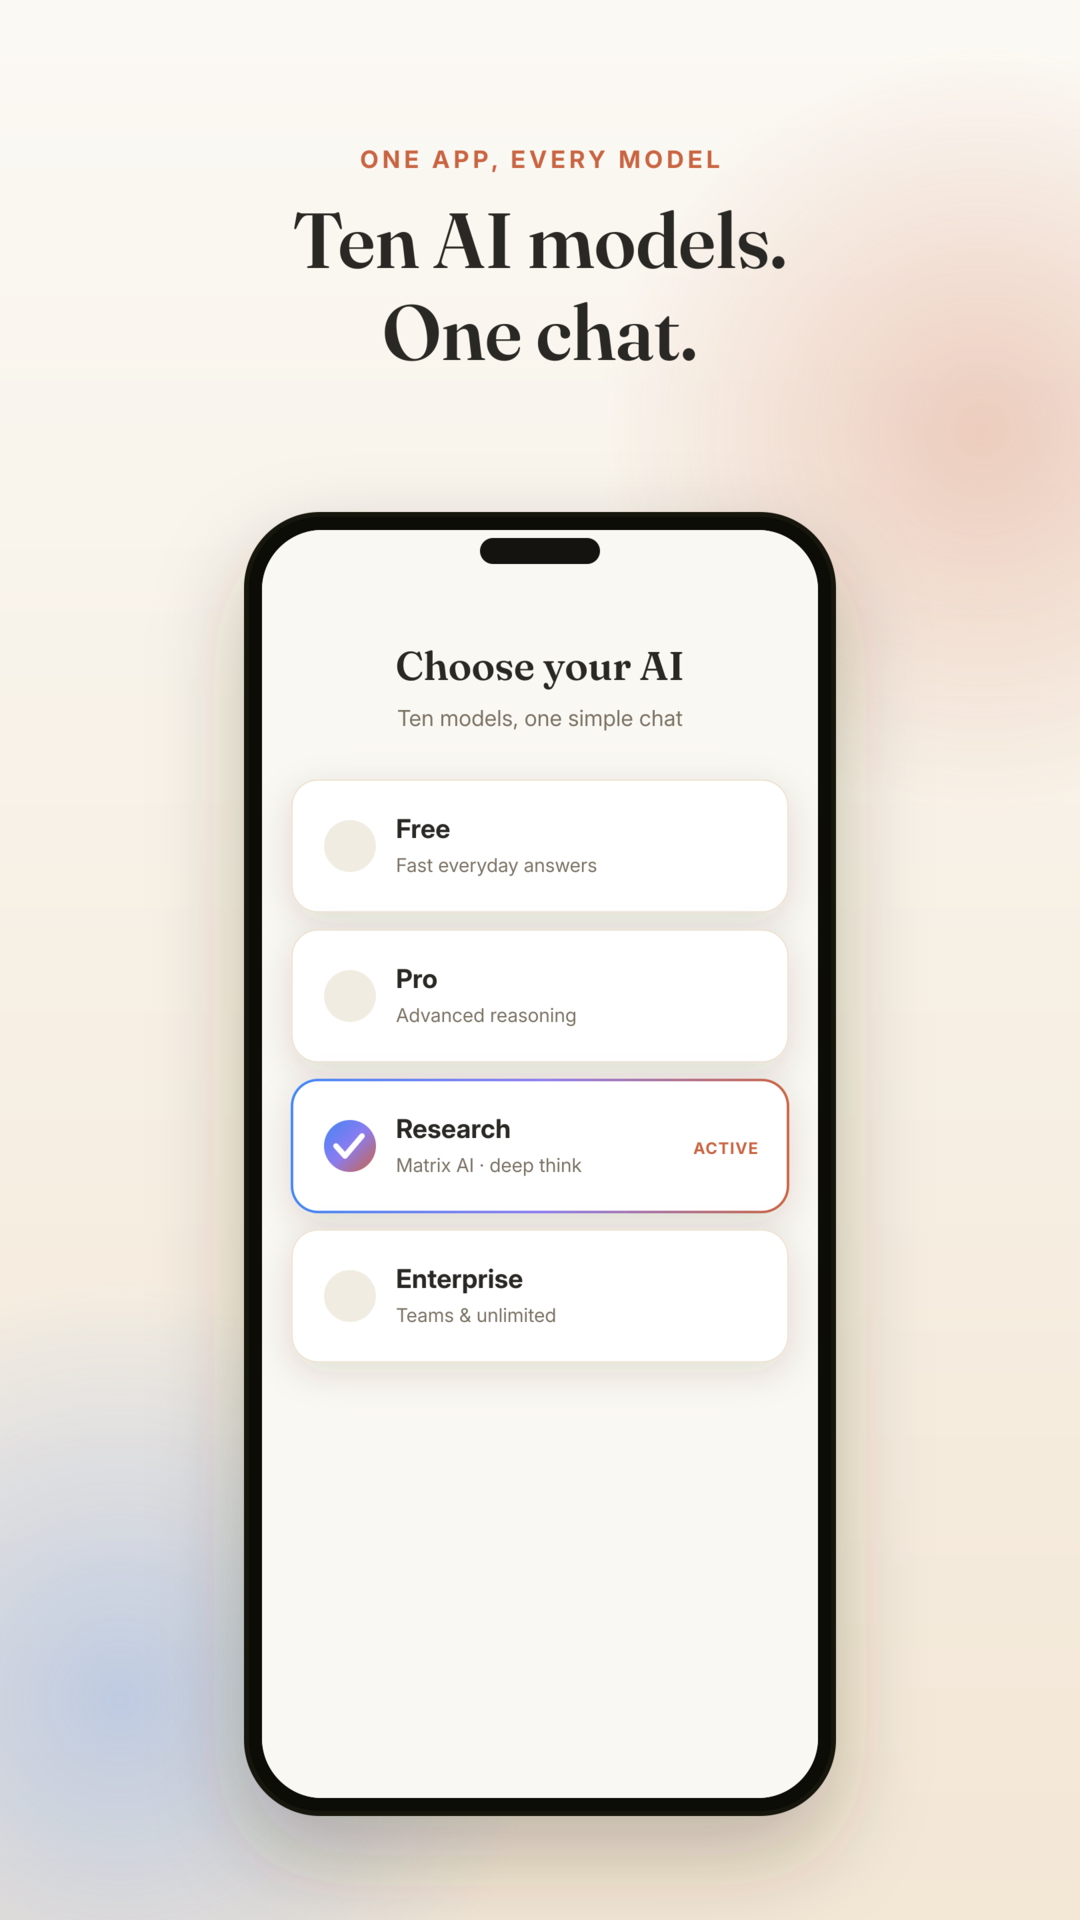
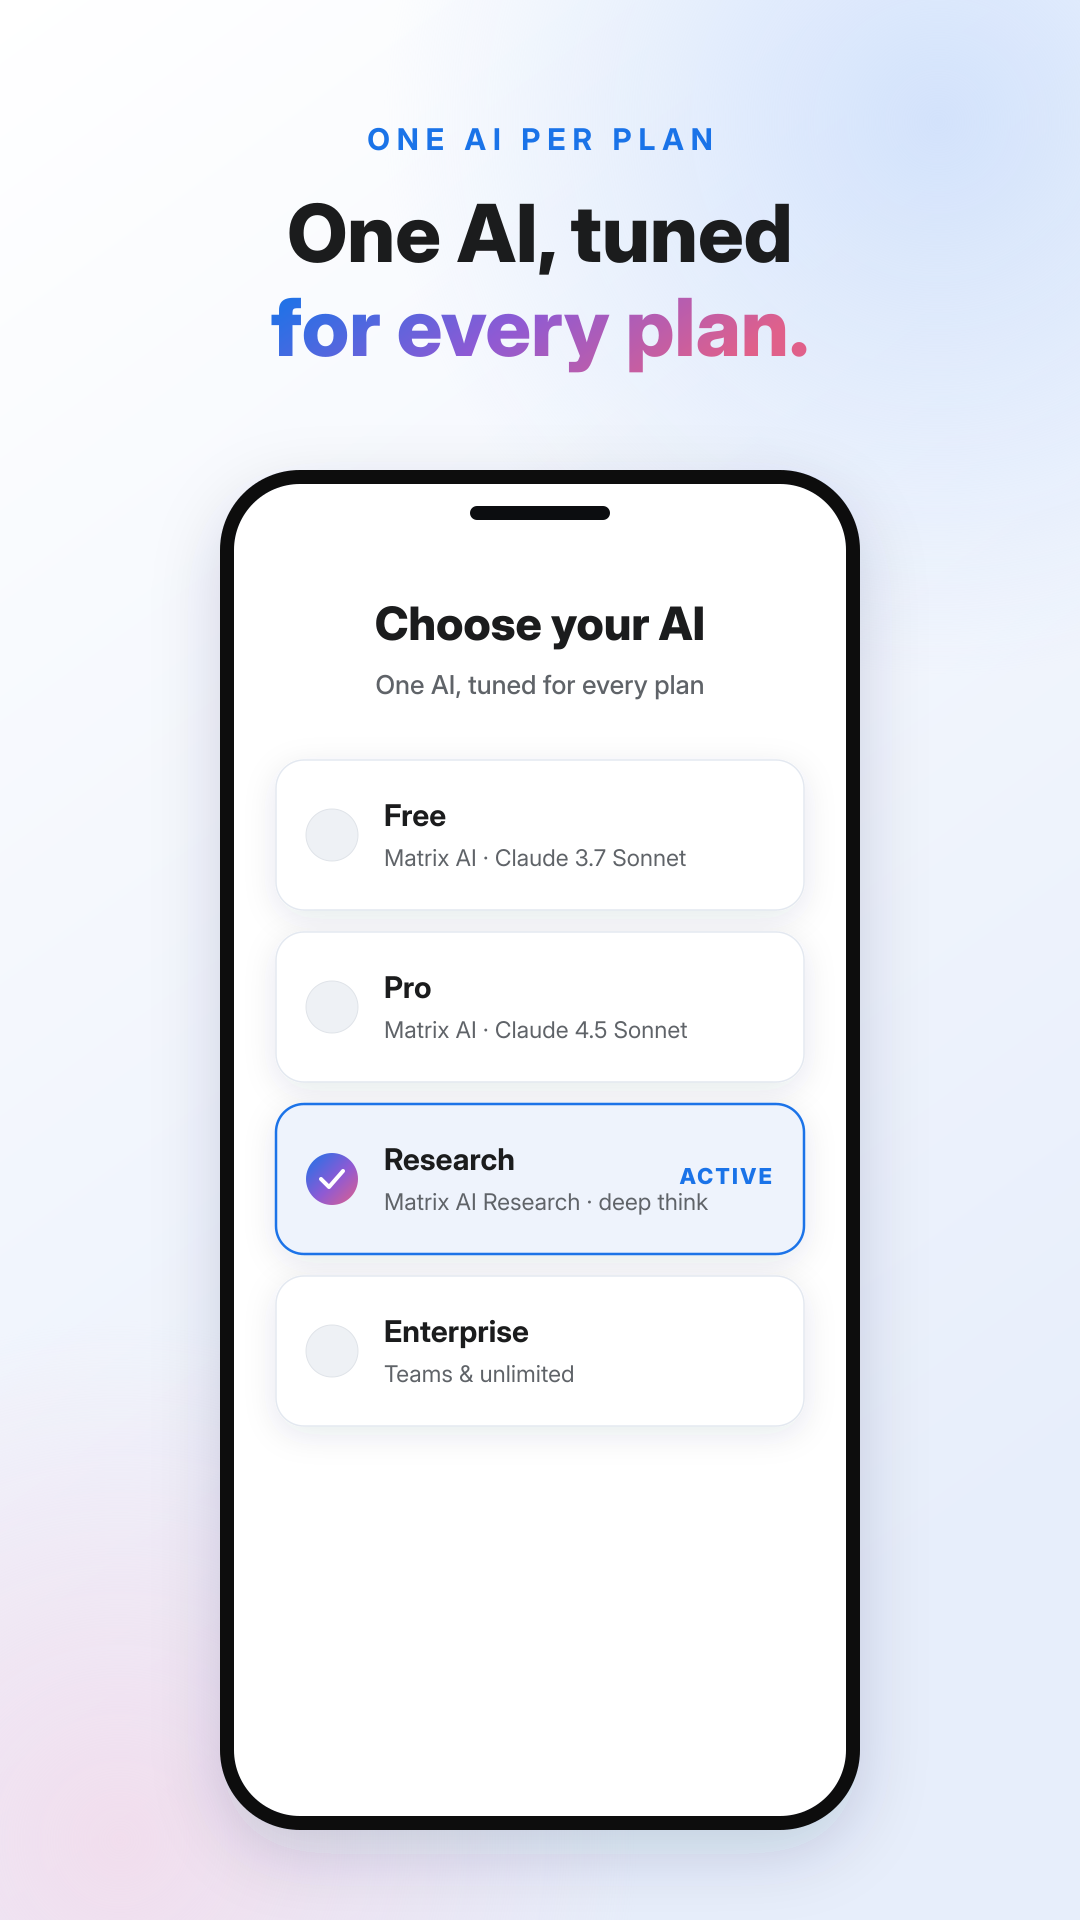
Update app store visuals and messaging to match current branding
Update Play Store listing assets, including feature graphic and screenshots, to align with the new "Clear Blue" design and correct product claims.

Replit-Commit-Author: Agent
Replit-Commit-Session-Id: 3a5b5190-1556-4d62-bdaa-f568de48f631
Replit-Commit-Checkpoint-Type: full_checkpoint
Replit-Commit-Event-Id: 21d269eb-b12f-4f6d-98cc-e5fe05ee17db
Replit-Commit-Screenshot-Url: https://storage.googleapis.com/screenshot-production-us-central1/0793dfe8-d2b4-4335-aa5b-3b80b98b8a9e/3a5b5190-1556-4d62-bdaa-f568de48f631/HjJ8d7L
Replit-Helium-Checkpoint-Created: true

diff --git a/.agents/memory/playstore-listing.md b/.agents/memory/playstore-listing.md
@@ -1,0 +1,23 @@
+---
+name: Play Store listing assets
+description: How the Google Play screenshots/feature graphic are generated and the copy rules they must follow
+---
+
+# Play Store listing assets
+
+Assets live in `playstore_assets/` — `00_feature_graphic.png` (1024x500) + six phone
+screenshots `01..06` (1080x1920). They are marketing graphics (headline + device mockup),
+not real app screenshots.
+
+## How they're generated
+- Authored as SVG, rasterized with ImageMagick's librsvg delegate (`magick -background none in.svg out.png`). librsvg renders multi-stop gradients and the Inter font cleanly; ImageMagick's own MSVG renderer does not.
+- Inter (all weights) is installed via fontconfig — use `font-family="Inter"` with `font-weight` 400/500/700/800.
+- **Escape `&` as `&amp;` in any SVG text** (e.g. "Teams & unlimited") or librsvg fails to parse the file.
+
+## Copy rules (MUST follow — user got angry about wrong claims)
+- **Never say "ten models" / "every model".** The product is ONE AI per plan, all branded **Matrix AI**, powered by Claude.
+  - Free = Matrix AI · Claude 3.7 Sonnet
+  - Pro = Matrix AI · Claude 4.5 Sonnet
+  - Research / Enterprise = "Matrix AI Research" multi-agent (deep think)
+- **Verified / cited answers are Research & Enterprise only** — frame the "Verified, cited" slide as a paid-tier feature, not universal.
+- Visual style must match the live app's "Clear Blue" design (see design-language.md): white bg, #1a73e8 blue, blue→violet→magenta spark gradient, clean Inter sans (NOT serif), soft shadows.

diff --git a/.agents/memory/MEMORY.md b/.agents/memory/MEMORY.md
@@ -14,6 +14,7 @@
 - [AI response language](ai-response-language.md) — "wrong language" is usually the Google Translate DOM widget, not the model; require explicit-choice flag, default English; server must always pin language incl. deep mode.
 - [Prod schema drift](prod-schema-drift.md) — prod Azure Postgres never runs `drizzle-kit push`; new tables MUST be added to `NEW_TABLES` in `server/db-migrations.ts` or they 500 in prod only.
 - [Prod data provisioning](prod-data-provisioning.md) — prod DB is unreachable from dev + read-only; seed privileged roles via login-time app grant (allowlist), not manual SQL.
+- [Play Store listing assets](playstore-listing.md) — SVG→librsvg gen recipe + copy rules: never "ten models", it's ONE Matrix AI (Claude) per plan; verified/cited = paid only.
 - [Reminder calendar fallback](reminder-calendar-fallback.md) — "remind me" with no native alarm auto-creates a self-only calendar event (no confirm step); parse time via Intl longOffset, never hour12:false.
 - [Theme system & CSS vars](theme-system.md) — index.css tokens are full `hsl(...)` strings: use `var(--x)` directly, never `hsl(var(--x))`; landing is an intentional separate black theme, app is clean blue (Gemini-style).
 - [OpenAI Sora video](openai-sora-video.md) — SDK has no `videos` resource so call Sora REST directly; API shuts down 2026-09-24; brand "Matrix Video", never leak provider names.
